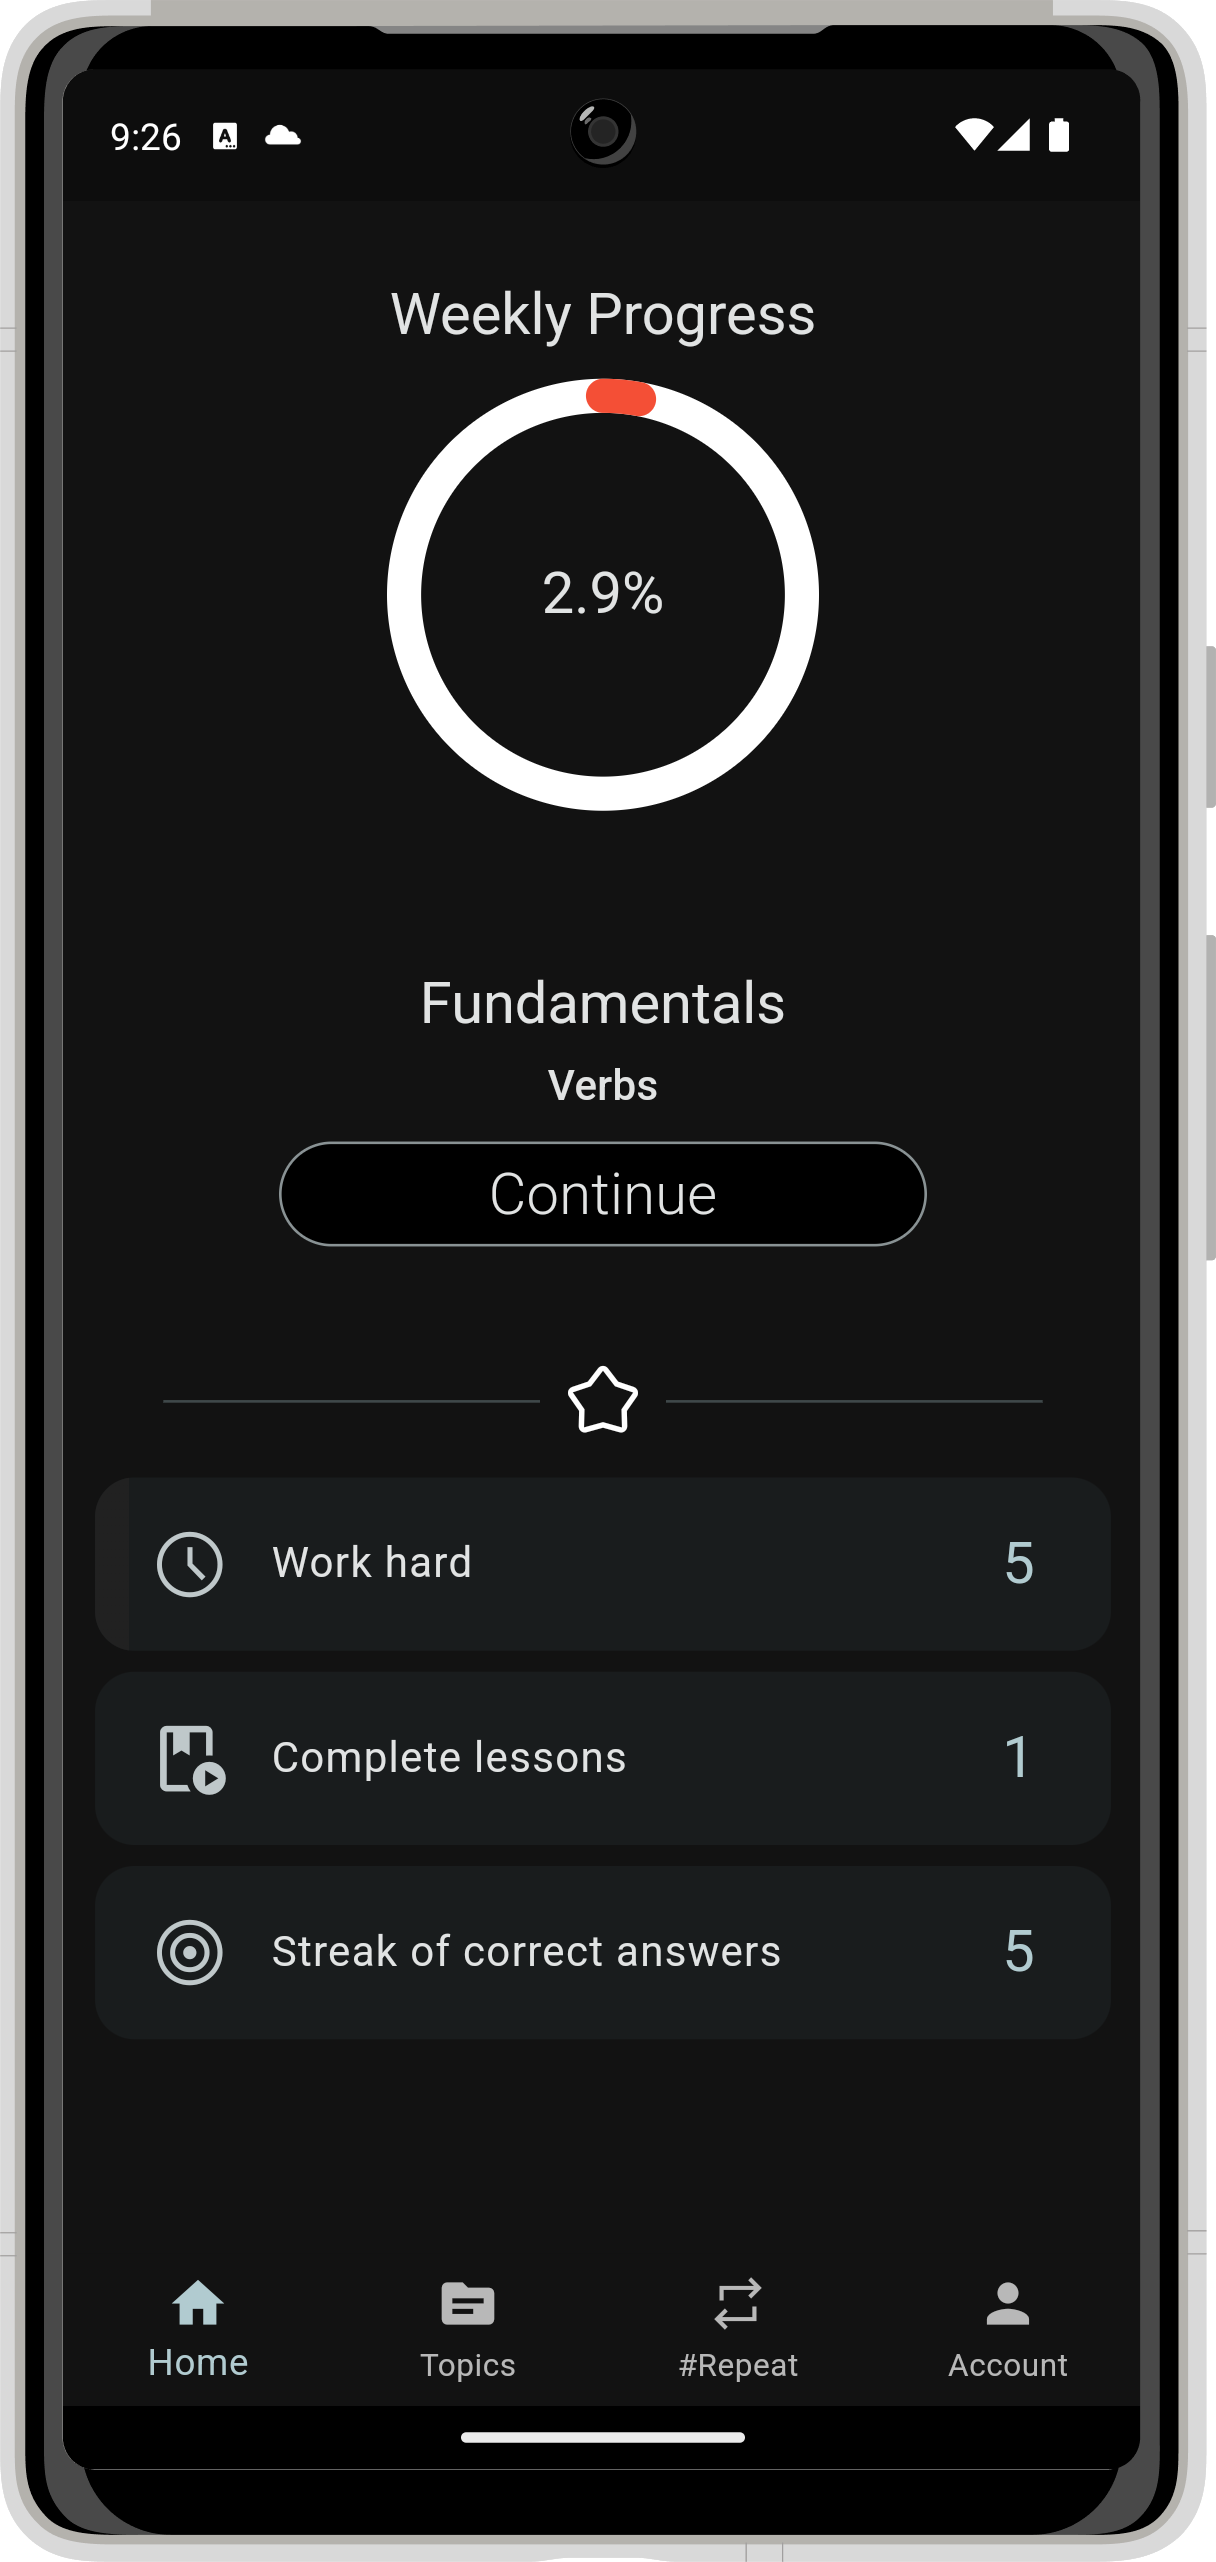
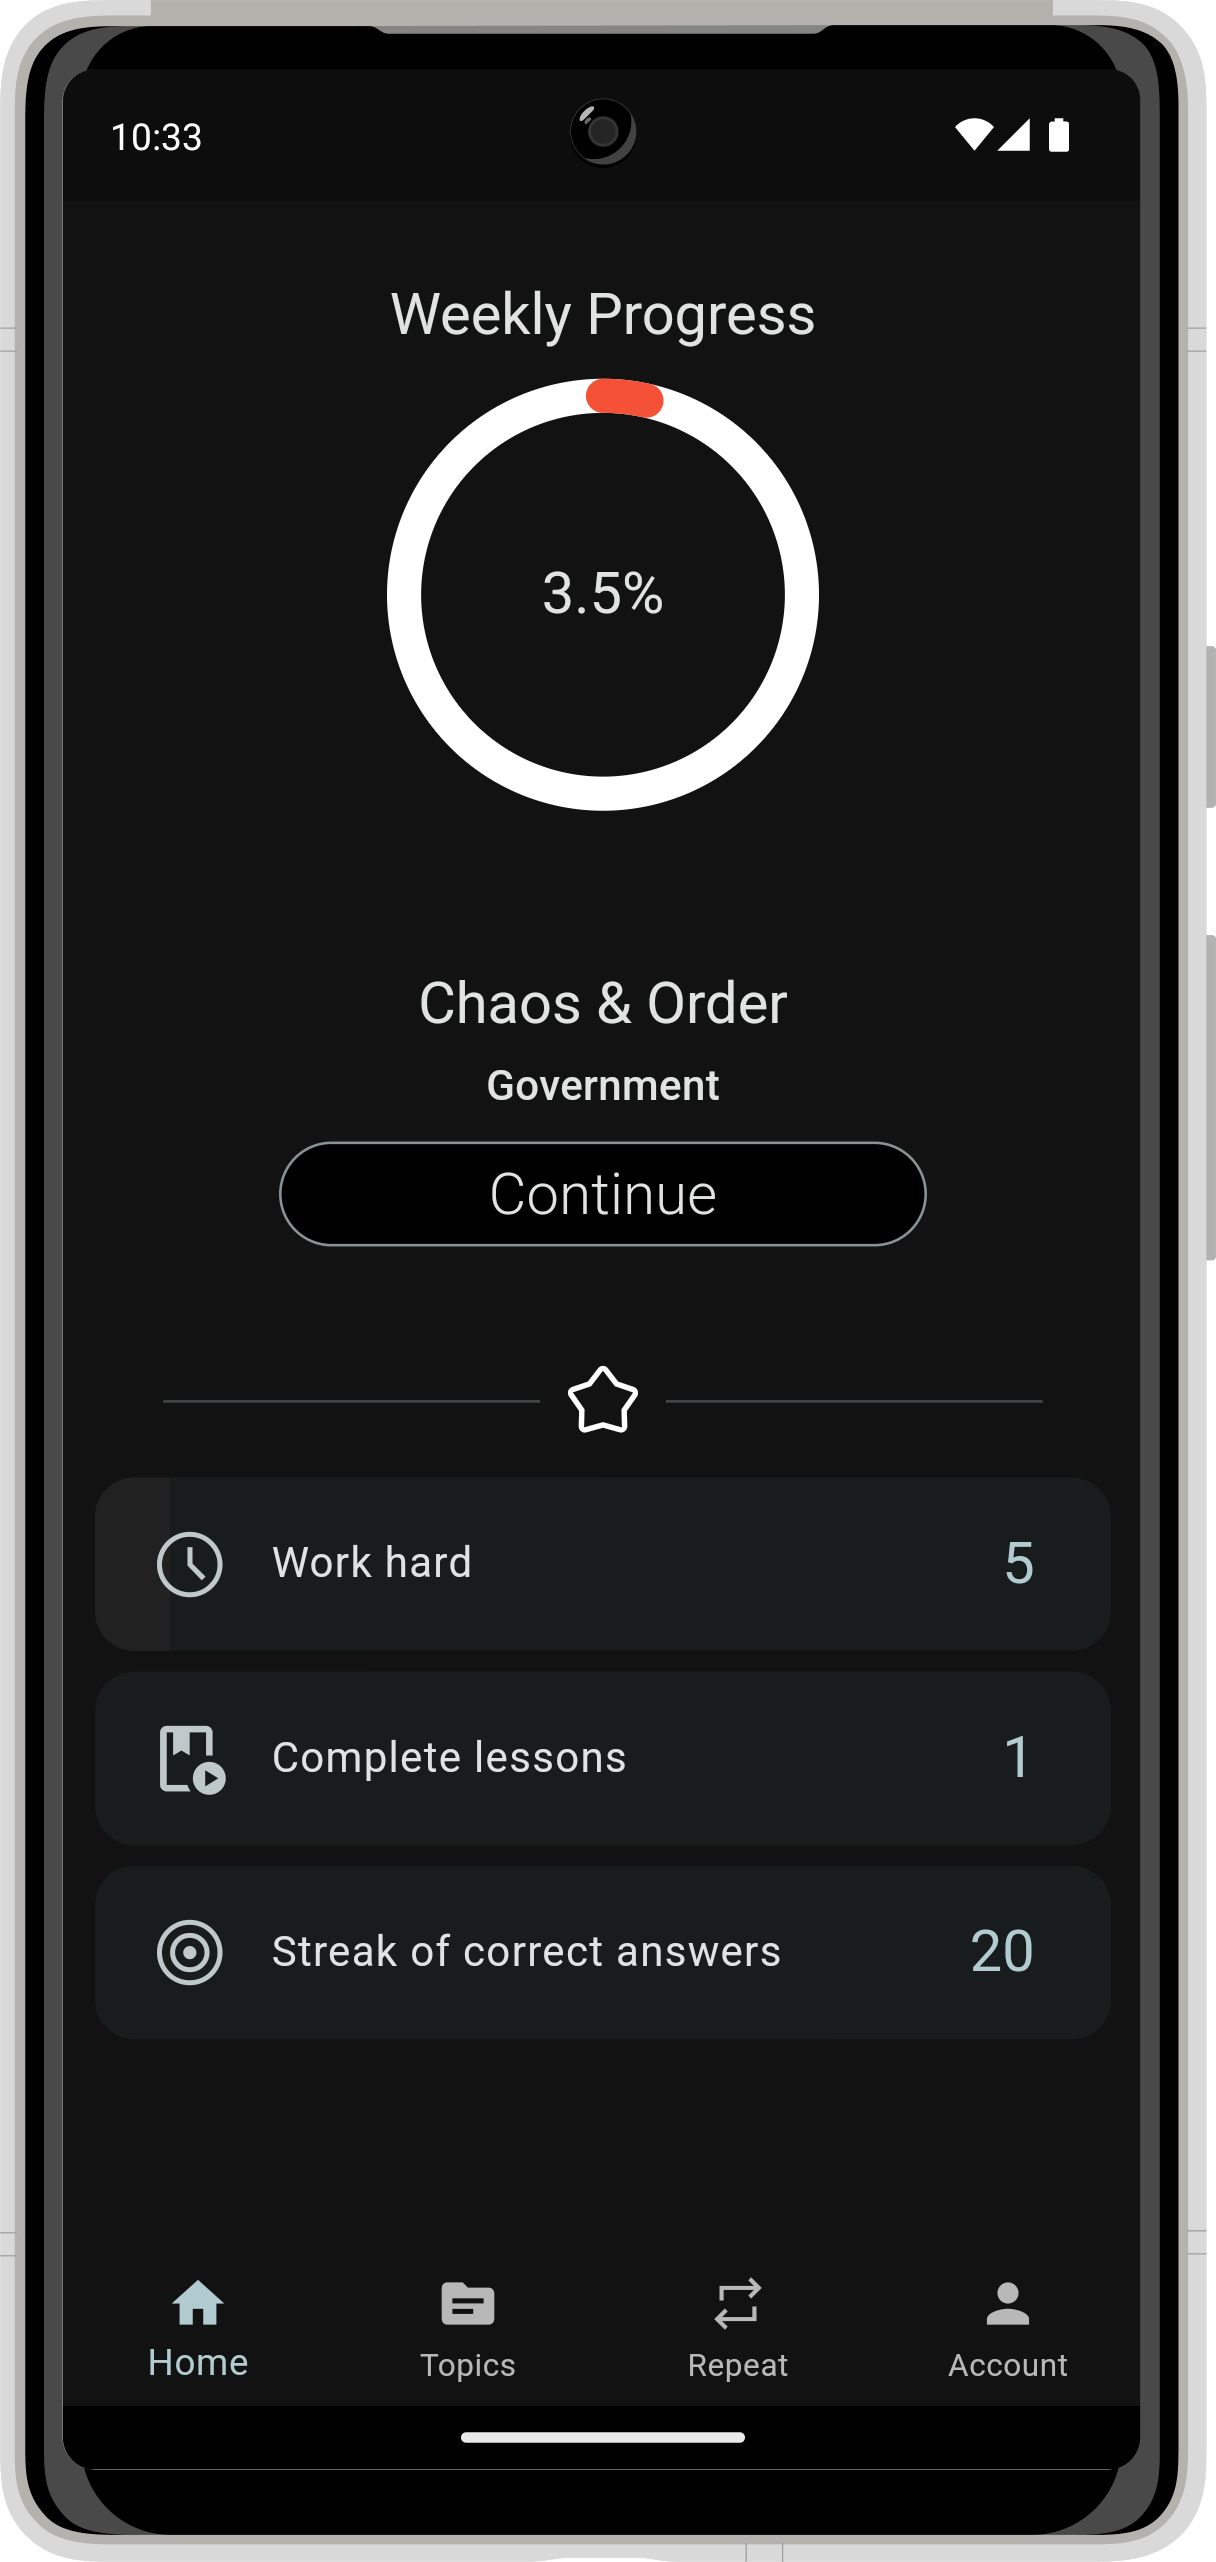
.

diff --git a/flutter_service_worker.js b/flutter_service_worker.js
@@ -6,7 +6,7 @@ const CACHE_NAME = 'flutter-app-cache';
 const RESOURCES = {".git/COMMIT_EDITMSG": "8cf8463b34caa8ac871a52d5dd7ad1ef",
 ".git/config": "55dfb8d6ff04fb0a8ec8c8e1c85ee269",
 ".git/description": "a0a7c3fff21f2aea3cfa1d0316dd816c",
-".git/FETCH_HEAD": "d98294795da73ca9ac7266a6e54d84b2",
+".git/FETCH_HEAD": "35c187c385dc9515d61ecb63332eccff",
 ".git/HEAD": "cf7dd3ce51958c5f13fece957cc417fb",
 ".git/hooks/applypatch-msg.sample": "ce562e08d8098926a3862fc6e7905199",
 ".git/hooks/commit-msg.sample": "579a3c1e12a1e74a98169175fb913012",
@@ -22,20 +22,23 @@ const RESOURCES = {".git/COMMIT_EDITMSG": "8cf8463b34caa8ac871a52d5dd7ad1ef",
 ".git/hooks/push-to-checkout.sample": "c7ab00c7784efeadad3ae9b228d4b4db",
 ".git/hooks/sendemail-validate.sample": "4d67df3a8d5c98cb8565c07e42be0b04",
 ".git/hooks/update.sample": "647ae13c682f7827c22f5fc08a03674e",
-".git/index": "93b4640b9809f62a013c3c7f532b9634",
+".git/index": "4d91ba6c876c13fbcf8633e4efdf8227",
 ".git/info/exclude": "036208b4a1ab4a235d75c181e685e5a3",
-".git/logs/HEAD": "90beefce40143dbb40767ec22d4107dc",
-".git/logs/refs/heads/main": "90beefce40143dbb40767ec22d4107dc",
+".git/logs/HEAD": "951319b06b1cb65c114813cf29cb3259",
+".git/logs/refs/heads/main": "951319b06b1cb65c114813cf29cb3259",
 ".git/logs/refs/remotes/origin/HEAD": "838b855152d8df05301fdd7034416064",
-".git/logs/refs/remotes/origin/main": "b5e94aae62291f317a6604f43a7b67c6",
+".git/logs/refs/remotes/origin/main": "cc8d561efa8af9dedde18e925ee63fcf",
 ".git/objects/05/2d235ee81f6e4c2762411d4ab979f4cac0c8bc": "a948543180c0304538b74f7dbc62907f",
 ".git/objects/06/44ef87c583c57e3cfdf907a903b773a5a50aaf": "be0b2a922a8e247b8ae3aa428f5170d2",
 ".git/objects/07/d3d08b43a648dadd00b71607121b94d3dc6461": "e717b5d23dd1fa7af123df0c887647a1",
 ".git/objects/08/be8ac5700e88aec9a695c20aa2188d381130e6": "e4ed572242d00922d87180d9475bb52a",
+".git/objects/0a/e0763b21c2abf27da18eb302d422945fc56f73": "f2c29dbf2df1a280c9e4bdcb79249208",
+".git/objects/0d/2199892b141b20b1bba18f019a19d439b6c1f1": "c8bb0a84f21d4fbc0b124f48926ac844",
 ".git/objects/0d/739df1d0d83c2505f1bd3b888aa6dee96f1d6d": "4b3ede12967d50475f81cbbb6f4d71a4",
 ".git/objects/0e/68a238c88fe0d3086ead05a91f6a31a481ba39": "a38791993b54093fba391b9ad7b55815",
 ".git/objects/0e/80cd8b2ae3610cafcbc2762cd72e1a9654a2b1": "c5d2f2919e2aa99ee25737f3f0ff6443",
 ".git/objects/0e/96a9f2bcffdea0347bb1691e590eaa1406e77f": "6cad85d7d7241612288d9653ac776210",
+".git/objects/12/79437d8f089387dd4089ddbc83c9511866334f": "f8dc114a5027c88ed5df4dba94daa641",
 ".git/objects/13/63c32c6275a944a9495710efa5b2d579d4b12a": "719f1a65ab04af57e5faa197616d661b",
 ".git/objects/19/e3a921ec44ce6172ec5938053229651a5f95ad": "b70ff6ebada373d21a1b25ecfb66587c",
 ".git/objects/1a/62698405b7eb27213574302716cafc869e3717": "8f229d1ead43809c8ba76b3f06d72fa1",
@@ -62,6 +65,7 @@ const RESOURCES = {".git/COMMIT_EDITMSG": "8cf8463b34caa8ac871a52d5dd7ad1ef",
 ".git/objects/34/6323576ba39f99b2abf2b3c7e954e50ff972a4": "2a9c3f84b3439c7db80b756adbc89b9b",
 ".git/objects/35/b8f87350ab88d9d7d4f03275828f2478d11400": "6a4627490e3958ffa2ed728dee1d0fc3",
 ".git/objects/35/e0b0d42754f1efd2038e683c3abe5369eef5b3": "b3e1f7c8122e2013f4280881fc291c23",
+".git/objects/35/fa6d6a18a3323253c7d2a7d25a05defff5eef6": "c7125bfc90855fabc85be8a5195513de",
 ".git/objects/36/52400745223030f85f6b38c6856389cb6333ce": "b9a15f4469894b27803badd605a21f01",
 ".git/objects/36/86cf02ed1e3e9461fffbdb6022a17485e7f286": "6627177ba4c9d989276385c7b8f0dd9b",
 ".git/objects/36/9fc22ec062b9589277bbd1af384561b99c790d": "27ac1a861fc280e120107107f1814bd7",
@@ -74,6 +78,7 @@ const RESOURCES = {".git/COMMIT_EDITMSG": "8cf8463b34caa8ac871a52d5dd7ad1ef",
 ".git/objects/3f/c012c61ec4aae2737353b894e8dbdbe40f70df": "a55e174657789244d27ffda1d661d7d0",
 ".git/objects/40/f3ae6c6fbc46a793f9cf826b1cae24c597e7b2": "c621f2b07a91f7d787ca8c3b8aae0621",
 ".git/objects/42/3015003df72209ca145c2db3bb948775707057": "221a7352859dad4a7b3b88c889ead59b",
+".git/objects/43/e382c6211ebc5ab2a7d4a6646edb71afdf738d": "cc50a0816a0c1d2330213d8f39582995",
 ".git/objects/44/34ad2e05cdd23354488009a3ef9824672c699b": "b496812499a65f9b47680ba0c398a109",
 ".git/objects/45/c6f0bb4d09605fc2883ab3623f6af24936bde0": "7247c488b3455c16c02372053b0e6545",
 ".git/objects/46/9cf26cb1d5ebd20b753375a62b26a8bd824e2e": "e0e50d1bf91e4a2b52e89dfd25b451e1",
@@ -105,6 +110,7 @@ const RESOURCES = {".git/COMMIT_EDITMSG": "8cf8463b34caa8ac871a52d5dd7ad1ef",
 ".git/objects/6f/3a2913e199cebe9ace75cf7e5a2818da27fbd3": "45159ad6d14348c955865d0f51914657",
 ".git/objects/71/dff4f2ea863f6e8865494f2036e25c4ac25c7f": "5669ec62ca4adf77c6c9bbfe4917f89d",
 ".git/objects/72/c499c19972ad38b110f1d0dcb158683c2127ec": "b5cb1cd6d6aabd476f0495af1852125b",
+".git/objects/73/3601a4b787281fb085fddce1a6e0c064489503": "bf8b8a97279931c9ca78f424fc00fe8c",
 ".git/objects/73/9ca8ee5f39a378a1a27a93f3179578fd6228e6": "381b6d86648244df488df6c4198a2e16",
 ".git/objects/73/a3541ebcae3f44490e275e6302c9272c5abad4": "cee720aa6bfaa4febf5fae5ec0e70df4",
 ".git/objects/75/dfc17d24d5c5a8b41c1ed27fda220d49354cfa": "faa06f3b2dd772757aa54f63062e05ef",
@@ -139,13 +145,16 @@ const RESOURCES = {".git/COMMIT_EDITMSG": "8cf8463b34caa8ac871a52d5dd7ad1ef",
 ".git/objects/a2/75427e689a8f99f712d32f536aa5da0f0cac06": "bef9ffccde91186296ace176a36943da",
 ".git/objects/a2/bd9e0cb6163d0e8eeaf76cadfc01d74e8d34f2": "b50f10e1ca539e5e729c6f0df608f534",
 ".git/objects/a2/c4fb6e305531b81d0f1f64fe57344e3071128b": "63ce55f57e3f74c94e06cffcd430e933",
+".git/objects/a3/06e90289f492ae7639d48f63e6b160ab3f5a1a": "3c3fe106ed34b418459a7ad3c5fe1b52",
 ".git/objects/a4/b656766399bd8f2018e40067129b7c84e665a4": "71e41b052d124be63ca4c76915e4a72e",
 ".git/objects/a9/6f1c74782fa4756d685b8f252f10718a5582d3": "930cefdaeae4aca0b75cd83328976151",
 ".git/objects/aa/4836d450e3805d52094b3272422c8816eb64ca": "87fd61914d3a7227f4a74071902608df",
 ".git/objects/ab/aeba5123012f3962df22dfd74dae25c78d58e9": "afede6c0270cdc28ea4e3080800d263e",
 ".git/objects/ab/ce4e45d1142db232c4f23a68ca8e280445d784": "817fd792e173d697fca54be7b3df935c",
+".git/objects/ac/9bc055b345bb55a152a04e0d55d6777c07e3d2": "64103775515bd11a0c9ffd687c9397da",
 ".git/objects/ad/0d5a7b4f912e1cf84c96fec86289ca4c41d9b3": "5ae1534c3c40d42e060c86e3d845a7db",
 ".git/objects/af/156227f5c8cafc147a2c6205b363977afd6691": "60e59e4c4066fe6c03fe9e434a267ef8",
+".git/objects/b2/4bdce6c8d5f6b1ad8a794d28231ddbc82ec3db": "86614575ccc619c7b115488f6e07787c",
 ".git/objects/b3/297cab87273a8f612a2835af5f31a570243305": "f45b2af970cb43ba616ead7cdac6c725",
 ".git/objects/b3/6b5a742bb65a1ec40706b111ab9b0a2e7987c5": "8a4e24eda0e33159efc2024133034ffb",
 ".git/objects/b8/34ed910fcaec4b8d011f4049de90017fab7f68": "d0086287801c326e347283c1a1003fda",
@@ -155,11 +164,14 @@ const RESOURCES = {".git/COMMIT_EDITMSG": "8cf8463b34caa8ac871a52d5dd7ad1ef",
 ".git/objects/bc/3a631aed644c4a2827dff190e3ee37911b772b": "034709ba7f330fd13c9d366636d29f42",
 ".git/objects/c1/bcf78c05dd2f627fb861d9330987add4220982": "e072cf6dc066df33044b3126dbeb0a4f",
 ".git/objects/c1/e4ad7f85fe1618f75be8a8a1e6dfa8d3e87f23": "8dd29428636521dc6e94ea489750e176",
+".git/objects/c2/1b0905c144b565f8c9e5400be424e3270ccaf6": "870be9674bd5c871e6f70aa5d1447880",
 ".git/objects/c5/01e937b5037807049e05aa879b7e90a67705fe": "8eda65d180e51840ad7ae5073888ca14",
 ".git/objects/c6/7135a1f75144c58be12ffa677ff1293f3fb51b": "1f2732c61543264cea6ce07b899bdc90",
 ".git/objects/c7/a3774442d860cee157d16b1d107a981f8810fe": "76825b8ed9f1c904d43fb9430a738b4a",
 ".git/objects/c9/7d291dcf2e6226c0b5475ad85610dc7fd88cb8": "9d7203cbd7a6e3315efa3a2abe6a14bc",
 ".git/objects/cd/0f7247a93cb5647db6bf936d5a3f3aedb74cab": "0fc45cc089bf9be581b4b1a96097ddd4",
+".git/objects/cd/a90af442dadce03dbf7f415997310b10bf78e4": "b79d1d67f4b6c2f5287dc7a9b9e7eeb5",
+".git/objects/ce/4e0fdfde48a3100b779ef61fe9cc074482a5de": "373b363ed8677885e8257cc7dd2c6cdc",
 ".git/objects/ce/ce4a7b56b1ea24c40aa9aa3ae652ed9233580f": "8bd1951f4011d62ac6114fe023341d0e",
 ".git/objects/ce/e45334ddffc63b25e4937ab335648fce4b0b85": "4710354531d3f6c1ccb91316fcb07e1d",
 ".git/objects/d0/980534829831fa11ab592138a038f7ccf18473": "8cc2eb010e637ebcbf119b0221622d7d",
@@ -176,6 +188,7 @@ const RESOURCES = {".git/COMMIT_EDITMSG": "8cf8463b34caa8ac871a52d5dd7ad1ef",
 ".git/objects/de/a567a5727a5ab699d7f4fdea9af176dabcde94": "084e5e71ac8172774da946ada4db4d67",
 ".git/objects/de/f0144c6cf88927fab8666213d9c7f35e67e61c": "0012461088fa64e4cd353907c3e1e2d4",
 ".git/objects/e3/04c23a1dc2eca1fb38150c957186e54b90213f": "017a081f87f5f418f1220b7889e0e26c",
+".git/objects/e3/c4ed98fa366c1ada201f9e5ce20df8a134337a": "e5f65a09a46338fe7f1e948042c3c898",
 ".git/objects/e5/eb8a3b3a76e96387d171978e9dcf0a2b2bd389": "c35e3e5e2baf1c7f7422f38998bd0d88",
 ".git/objects/eb/9df05a45d3f7de1e5e3b28c69d1659130df75a": "5de2487a3ebfbb03efdf7e8f99493522",
 ".git/objects/ed/c35bb28ae2df2e14f0d431b108115000e6f872": "94a29ef879d168624986a53fe6be11e0",
@@ -191,11 +204,11 @@ const RESOURCES = {".git/COMMIT_EDITMSG": "8cf8463b34caa8ac871a52d5dd7ad1ef",
 ".git/objects/pack/pack-e035c850388dd82ec0edb1ec512cc10b1dc88914.idx": "9053b55bb4762ab653ad6916021d001d",
 ".git/objects/pack/pack-e035c850388dd82ec0edb1ec512cc10b1dc88914.pack": "78fa9697962ecabcc7d854226d6050ca",
 ".git/objects/pack/pack-e035c850388dd82ec0edb1ec512cc10b1dc88914.rev": "256a55f4bda4eab7534a8c6e3ec3c607",
-".git/ORIG_HEAD": "96cb50e01aa52fd841137ecc9056cd43",
+".git/ORIG_HEAD": "b4266186fa35d2beaf7f88e0e51ca428",
 ".git/packed-refs": "964ae5b46f8ee4b3fa92d426084cd936",
-".git/refs/heads/main": "96cb50e01aa52fd841137ecc9056cd43",
+".git/refs/heads/main": "b4266186fa35d2beaf7f88e0e51ca428",
 ".git/refs/remotes/origin/HEAD": "98b16e0b650190870f1b40bc8f4aec4e",
-".git/refs/remotes/origin/main": "96cb50e01aa52fd841137ecc9056cd43",
+".git/refs/remotes/origin/main": "b4266186fa35d2beaf7f88e0e51ca428",
 ".vscode/settings.json": "19751b2a32e46d1ba1477f357123a898",
 "assets/AssetManifest.bin": "0992ff77dd06732ef7d0556e9f5e3c5f",
 "assets/AssetManifest.bin.json": "baa47e9417ce747750a31830f50f2190",
@@ -205,7 +218,7 @@ const RESOURCES = {".git/COMMIT_EDITMSG": "8cf8463b34caa8ac871a52d5dd7ad1ef",
 "assets/assets/icon_16.png": "739a99e9a38304d5e8d1ada9e391dd07",
 "assets/assets/icon_512.png": "24e094a61cb258811feaeae5209df470",
 "assets/assets/pakku_256.png": "ad43c46b8781a1443488d6f6f04f790a",
-"assets/assets/ss1.png": "cb90a5100e52403aa937c104f37c0848",
+"assets/assets/ss1.png": "3382740a48e1b6cd04d9baf85edd460e",
 "assets/assets/ss2.png": "14365149e620f7f9e38f4647b8a7f162",
 "assets/assets/ss3.png": "0ff74de6806ac738c484ee05664f0db8",
 "assets/assets/ss4.png": "aa8aa8b3f2afddee0cb916a6748c9a36",
@@ -226,8 +239,8 @@ const RESOURCES = {".git/COMMIT_EDITMSG": "8cf8463b34caa8ac871a52d5dd7ad1ef",
 "flutter.js": "59a12ab9d00ae8f8096fffc417b6e84f",
 "icons/Icon-192.png": "ac9a721a12bbc803b44f645561ecb1e1",
 "icons/icon-512.png": "24e094a61cb258811feaeae5209df470",
-"index.html": "5b41901831f9970d8d7e6fd3cf66c882",
-"/": "5b41901831f9970d8d7e6fd3cf66c882",
+"index.html": "3bed3a7c3b919fb0b6ccb78211fb9ba5",
+"/": "3bed3a7c3b919fb0b6ccb78211fb9ba5",
 "main.dart.js": "c8bb4baca245d84ff9ec6a15bfa25485",
 "manifest.json": "f2a3bc12e123ec41a565ac8825cdb935",
 "version.json": "84ebc7dd42e223da54665072a3e53935"};

diff --git a/index.html b/index.html
@@ -34,7 +34,7 @@
 
   <script>
     // The value below is injected by flutter build, do not touch.
-    const serviceWorkerVersion = "1870575756";
+    const serviceWorkerVersion = "3371082918";
   </script>
   <!-- This script adds the flutter initialization JS code -->
   <script src="flutter.js" defer></script>
